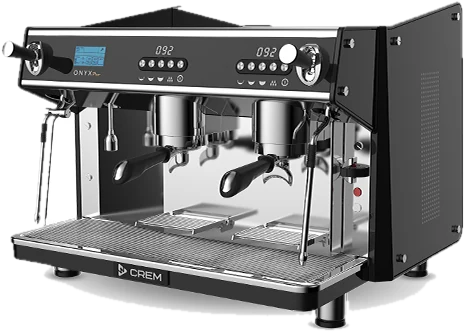
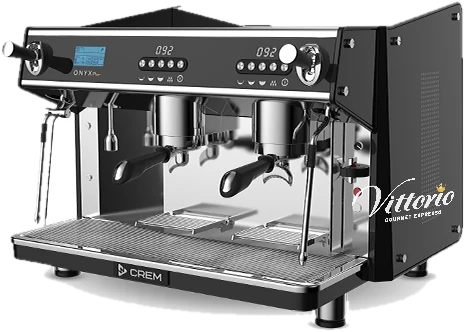
Zoom the B2B counter onto the machine first, and brand the machines
At the first chapter the machine stood alone, sized for the full counter,
so it looked lost in an empty panel. The scene now opens close on the
machine (1.85x) for Machines and Setup, then eases out to the whole
counter as the coffee arrives.

- Each brand machine photo carries a Vittorio decal on its side panel,
  warped to the panel's perspective, as on the machines placed in cafés.
- Leftover floor shadows under the Sanremo and Expobar are removed.
- Machines swap with a fade-out then fade-in, so two never overlap.
- The machine name tag sits top-centre, readable at both zoom levels.
- The active chapter is re-measured after load, so late layout shifts
  cannot leave the scene on the wrong chapter.

Changed region(s): [[0.7527, 0.5422, 0.9935, 0.6627]]

diff --git a/templates/cyprus.html b/templates/cyprus.html
@@ -9,16 +9,18 @@
 <section class="story" aria-label="What a partnership includes">
   <div class="story-stage">
     <div class="scene" data-step="{{ b2b.chapters | length - 1 }}">
+      <div class="scene-camera">
       <div class="scene-wall" aria-hidden="true"></div>
       <div class="scene-counter" aria-hidden="true"></div>
       {% set slot = b2b.machine_slot %}
       {% for machine in b2b.machines %}
       <img class="scene-item scene-machine{% if loop.first %} is-current{% endif %}" src="{{ url_for('static', filename='images/' ~ machine.src) }}" alt="{{ machine.name }}" width="{{ machine.w }}" height="{{ machine.h }}" decoding="async" data-step="0" data-name="{{ machine.name }}" style="--x: {{ slot.x }}%; --b: {{ slot.b }}%; --size: {{ slot.size }}%; --z: 2">
       {% endfor %}
-      <p class="scene-machine-tag" data-step="0" aria-live="polite">{{ b2b.machines[0].name }}</p>
       {% for piece in b2b.scene %}
       <img class="scene-item" src="{{ url_for('static', filename='images/' ~ piece.src) }}" alt="{{ piece.alt }}" width="{{ piece.w }}" height="{{ piece.h }}" loading="lazy" decoding="async" data-step="{{ piece.step }}" style="--x: {{ piece.x }}%; --b: {{ piece.b }}%; --size: {{ piece.size }}%; --z: {{ piece.z }}">
       {% endfor %}
+      </div>
+      <p class="scene-machine-tag" data-step="0" aria-live="polite">{{ b2b.machines[0].name }}</p>
       <p class="scene-chip scene-chip-setup" data-step="1">Free setup &amp; training</p>
       <p class="scene-chip scene-chip-service" data-step="6">Machine service</p>
       <figure class="scene-map" data-step="5">

diff --git a/static/css/site.css b/static/css/site.css
@@ -1211,14 +1211,25 @@ input, textarea {
   box-shadow: 0 10px 24px rgba(26, 16, 12, 0.3);
 }
 /* Brand machines share one spot; only the current one shows, crossfading as they cycle. */
-.scene .scene-item.scene-machine { transition: opacity 0.9s var(--ease), translate 0.9s var(--ease); }
+.scene .scene-item.scene-machine { transition: opacity 0.45s ease, translate 0.6s var(--ease); }
+.scene .scene-item.scene-machine.is-current { transition-delay: 0.45s; }
 .scene .scene-item.scene-machine:not(.is-current) { opacity: 0; translate: 0 10px; }
+/* A camera layer: close on the machine for the first chapters, then out to the full counter. */
+.scene-camera {
+  position: absolute;
+  inset: 0;
+  transform-origin: 49% 57%;
+  transition: transform 1.4s var(--ease);
+}
+.story-live .scene[data-zoom="near"] .scene-camera { transform: scale(1.85); }
 .scene-machine-tag {
   position: absolute;
-  z-index: 5;
-  left: 33.5%;
-  bottom: 23%;
-  margin: 0;
+  z-index: 8;
+  left: 0;
+  right: 0;
+  top: 5%;
+  width: max-content;
+  margin: 0 auto;
   padding: 0.22rem 0.6rem;
   border-radius: 999px;
   background: rgba(251, 247, 241, 0.94);

diff --git a/static/js/site.js b/static/js/site.js
@@ -53,7 +53,11 @@
   var rail = story.querySelectorAll(".story-rail a");
   var chapters = story.querySelectorAll(".chapter");
 
+  var sceneBox = story.querySelector(".scene");
+
   function show(step) {
+    // Close on the machine for the first two chapters, then out to the whole counter.
+    sceneBox.dataset.zoom = step <= 1 ? "near" : "far";
     parts.forEach(function (part) { part.classList.toggle("on", Number(part.dataset.step) <= step); });
     rail.forEach(function (link) {
       var s = Number(link.dataset.step);
@@ -81,6 +85,10 @@
   update();
   window.addEventListener("scroll", update, { passive: true });
   window.addEventListener("resize", update);
+  window.addEventListener("load", function () {
+    current = -1;
+    update();
+  });
 })();
 
 (function () {

diff --git a/tools/optimize_images.py b/tools/optimize_images.py
@@ -79,10 +79,12 @@ HERO_PRODUCTS = [
 ]
 
 
-def cutout(path, tolerance=26):
+def cutout(path, tolerance=26, floor=0.0, floor_tolerance=None):
     """Make the studio background transparent, keeping matching colours inside the product.
 
     The background colour is sampled from the corners, so white and cream sweeps both work.
+    `floor` (a fraction of the height) uses a looser tolerance at the bottom to drop soft
+    floor shadows under machines without eating their white bodies higher up.
     """
     source = Image.open(path)
     if source.mode in ("P", "LA") or (source.mode == "RGB" and "transparency" in source.info):
@@ -96,6 +98,10 @@ def cutout(path, tolerance=26):
     near_key = ImageChops.lighter(ImageChops.lighter(distance.getchannel("R"), distance.getchannel("G")), distance.getchannel("B"))
     mask = near_key.point(lambda value: 255 if value < tolerance else 0)
     width, height = mask.size
+    if floor:
+        top = int(height * (1 - floor))
+        loose = near_key.point(lambda value: 255 if value < floor_tolerance else 0)
+        mask.paste(loose.crop((0, top, width, height)), (0, top))
     edges = [(x, y) for x in range(0, width, 6) for y in (0, height - 1)]
     edges += [(x, y) for y in range(0, height, 6) for x in (0, width - 1)]
     for point in edges:
@@ -119,29 +125,77 @@ def build_hero():
     build_share_image(target)
 
 
-# Pieces for the B2B "build your counter" scene: (output name, source image, tolerance).
+# Pieces for the B2B "build your counter" scene. Coordinates are in the saved (thumbnailed) image.
+# Machines are official manufacturer photos (downloaded with the owner's OK on 2026-09-24); each
+# carries a Vittorio decal on its side panel, as on the machines placed with partner cafés.
 SCENE_PIECES = [
-    # Official manufacturer photos (downloaded with the owner's OK on 2026-09-24), cycled on the counter.
-    ("machine-appia-life", "machines/brand/appia-life.png", 26),
-    ("machine-sanremo", "machines/brand/sanremo-cafe-racer.png", 12),
-    ("machine-expobar", "machines/brand/expobar-onyx-pro.jpg", 30),
-    ("waffle-mix", "products/waffle-mix.jpg", 26),
-    ("soft-ice-cream", "products/soft-ice-cream-1kg.png", 26),
-    ("cups", "products/glasses-4-oz-8-oz-12-oz-16-oz.png", 22),
-    ("lids", "products/black-lids-12-16oz.png", 55),
-    ("straws", "products/frappe-straws-x-500.png", 34),
+    {"name": "machine-appia-life", "source": "machines/brand/appia-life.png",
+     "logo": [(708, 196), (820, 188), (820, 234), (708, 244)]},
+    {"name": "machine-sanremo", "source": "machines/brand/sanremo-cafe-racer.png", "tolerance": 12,
+     "erase": [(0, 292), (470, 388), (532, 392), (532, 418), (774, 358), (774, 512), (0, 512)],
+     "logo": [(614, 99), (698, 96), (698, 126), (614, 131)]},
+    {"name": "machine-expobar", "source": "machines/brand/expobar-onyx-pro.jpg", "tolerance": 30,
+     "floor": 0.16, "floor_tolerance": 60,
+     "logo": [(352, 186), (454, 173), (454, 212), (352, 228)]},
+    {"name": "waffle-mix", "source": "products/waffle-mix.jpg"},
+    {"name": "soft-ice-cream", "source": "products/soft-ice-cream-1kg.png"},
+    {"name": "cups", "source": "products/glasses-4-oz-8-oz-12-oz-16-oz.png", "tolerance": 22},
+    {"name": "lids", "source": "products/black-lids-12-16oz.png", "tolerance": 55},
+    {"name": "straws", "source": "products/frappe-straws-x-500.png", "tolerance": 34},
 ]
+
+
+def erase_pale(piece, polygon, tolerance=72):
+    """Clear leftover pale floor shadow inside `polygon`; dark parts such as feet survive."""
+    region = Image.new("L", piece.size, 0)
+    ImageDraw.Draw(region).polygon(polygon, fill=255)
+    rgb = piece.convert("RGB")
+    distance = ImageChops.difference(rgb, Image.new("RGB", rgb.size, (255, 255, 255)))
+    darkest = ImageChops.lighter(ImageChops.lighter(distance.getchannel("R"), distance.getchannel("G")), distance.getchannel("B"))
+    pale = darkest.point(lambda value: 255 if value < tolerance else 0)
+    clear = ImageChops.multiply(region, pale)
+    alpha = ImageChops.subtract(piece.getchannel("A"), clear)
+    piece.putalpha(alpha.filter(ImageFilter.GaussianBlur(0.6)))
+    return piece
+
+
+def perspective_coeffs(target, source):
+    """Coefficients mapping points in `target` (output) back to `source` (input) for Image.transform."""
+    import numpy
+
+    rows = []
+    for (x, y), (u, v) in zip(target, source):
+        rows.append([x, y, 1, 0, 0, 0, -u * x, -u * y])
+        rows.append([0, 0, 0, x, y, 1, -v * x, -v * y])
+    matrix = numpy.array(rows, dtype=float)
+    vector = numpy.array(source, dtype=float).reshape(8)
+    return numpy.linalg.solve(matrix, vector).tolist()
+
+
+def add_decal(piece, quad, opacity=0.9):
+    """Print the light Vittorio logo onto a side panel, warped to the panel's perspective."""
+    logo = Image.open(IMAGES / "brand" / "logo-footer.png").convert("RGBA")
+    logo = logo.crop(logo.getchannel("A").getbbox())
+    corners = [(0, 0), (logo.width, 0), (logo.width, logo.height), (0, logo.height)]
+    warped = logo.transform(piece.size, Image.PERSPECTIVE, perspective_coeffs(quad, corners), Image.BICUBIC)
+    warped.putalpha(warped.getchannel("A").point(lambda value: int(value * opacity)))
+    return Image.alpha_composite(piece, warped)
 
 
 def build_scene():
     target = IMAGES / "scene"
     target.mkdir(parents=True, exist_ok=True)
     sizes = {}
-    for name, source, tolerance in SCENE_PIECES:
-        piece = cutout(IMAGES / source, tolerance)
+    for spec in SCENE_PIECES:
+        piece = cutout(IMAGES / spec["source"], spec.get("tolerance", 26), spec.get("floor", 0.0), spec.get("floor_tolerance"))
         piece.thumbnail((900, 900), Image.LANCZOS)
-        piece.save(target / f"{name}.webp", "WEBP", quality=88, method=6)
-        sizes[name] = piece.size
+        piece = piece.convert("RGBA")
+        if "erase" in spec:
+            piece = erase_pale(piece, spec["erase"])
+        if "logo" in spec:
+            piece = add_decal(piece, spec["logo"])
+        piece.save(target / f"{spec['name']}.webp", "WEBP", quality=88, method=6)
+        sizes[spec["name"]] = piece.size
     return sizes
 
 
